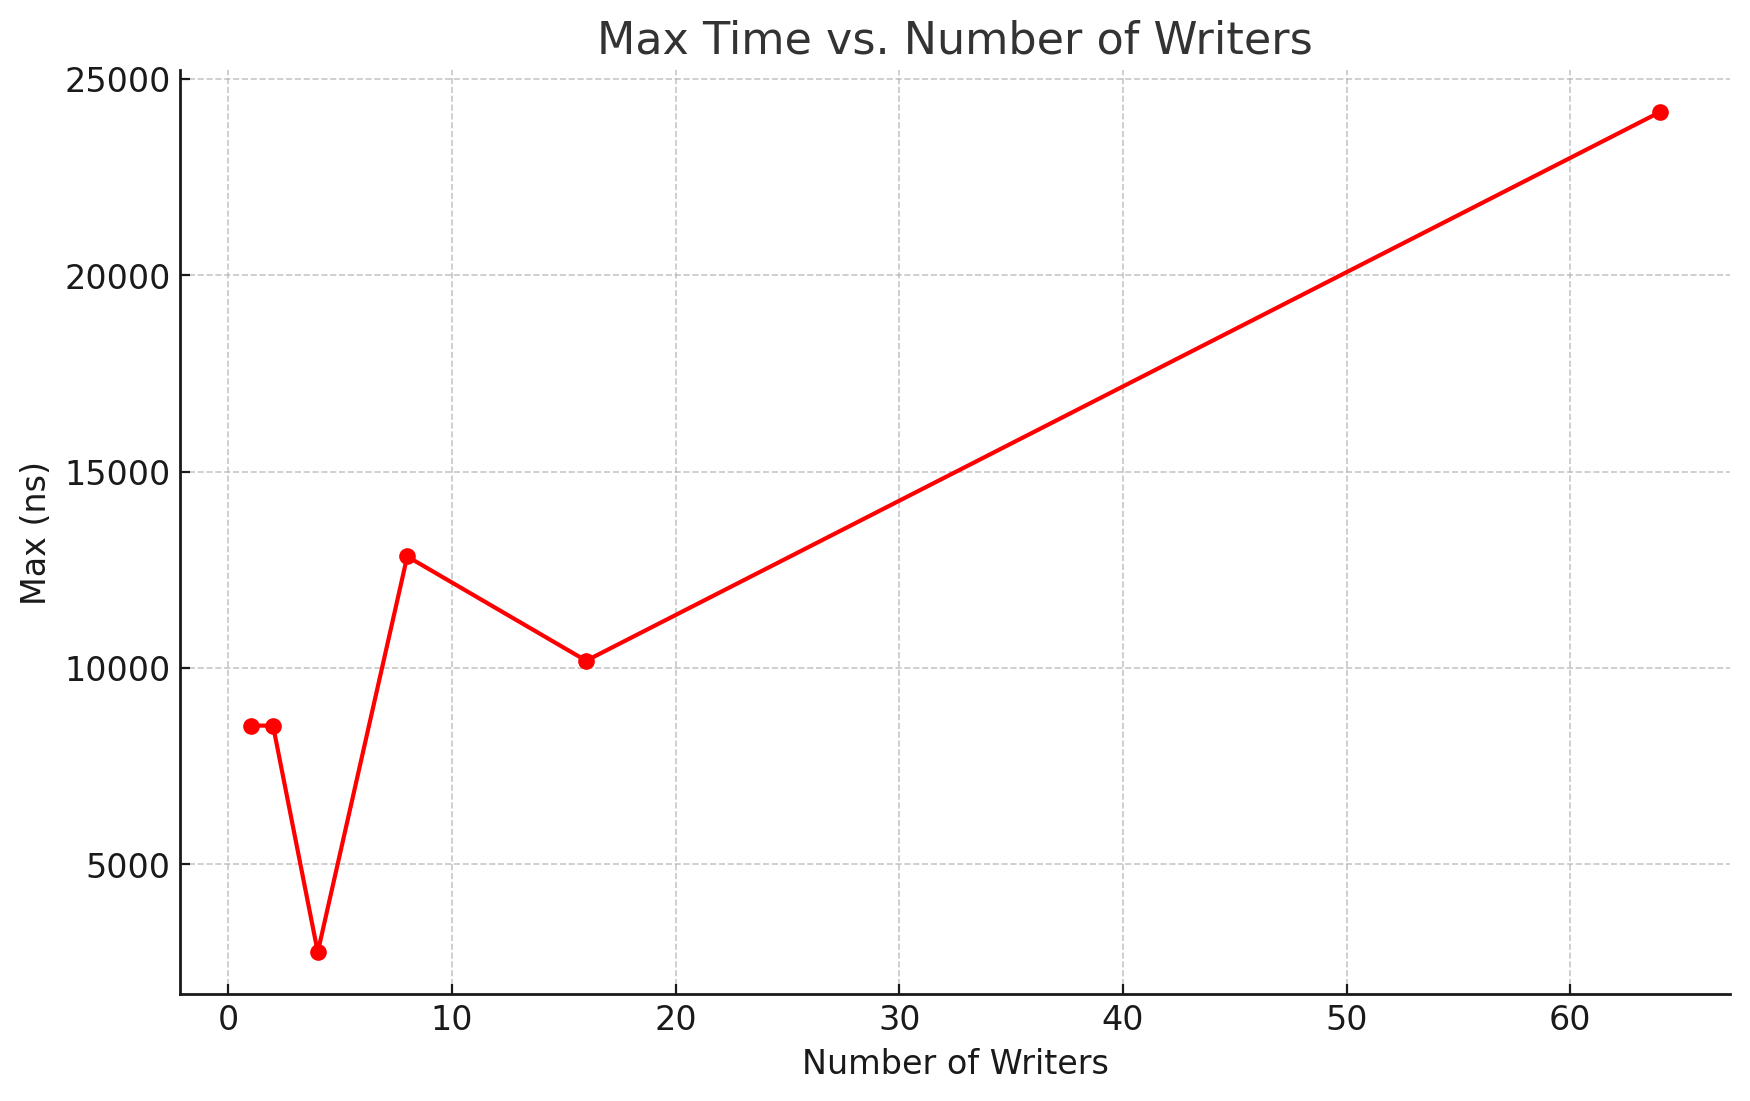
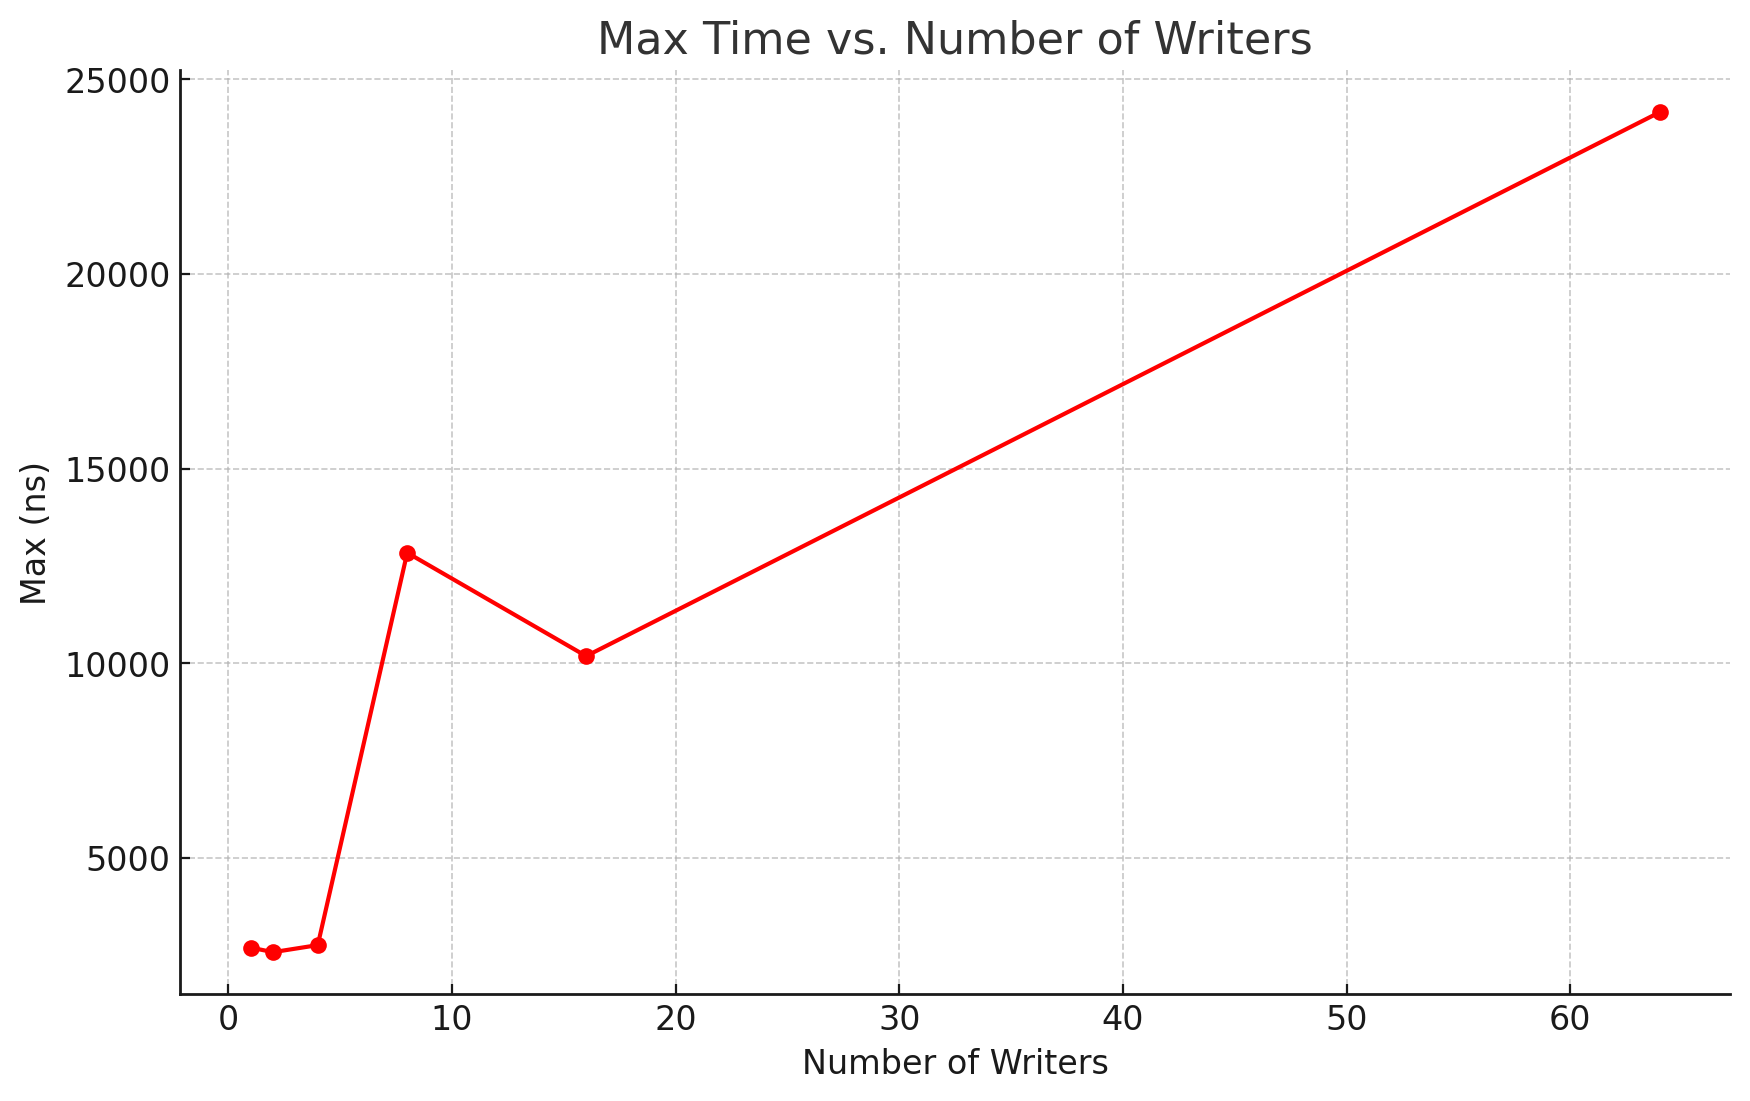
Update plots and notes in the README.

diff --git a/apps/executor/lockfree_polymorphic.h b/apps/executor/lockfree_polymorphic.h
@@ -38,6 +38,24 @@ class LockFreePolymorphic
         return {curr_wr_seq, std::bit_cast<void* const>(commit_ptr)};
     }
 
+    template <typename T>
+    auto ReserveMultiple(const size_t count) -> std::tuple<size_t, void* const, size_t>
+    {
+        auto total_size = sizeof(T);
+        auto commit_ptr = std::bit_cast<uintptr_t>(write_ptr_.fetch_add(total_size * count, std::memory_order_acq_rel));
+        auto curr_wr_seq = write_sequence_number_.fetch_add(1, std::memory_order_acq_rel);
+        auto& node = nodes_[curr_wr_seq & (NUM_NODES - 1)];
+
+        auto expected = EMPTY;
+        do {
+            expected = EMPTY;
+        } while (!node.written_.compare_exchange_weak(expected, RESERVED, std::memory_order_acq_rel));
+
+        // Store the commit pointer in the node
+        node.node_ptr_ = commit_ptr;
+        return {curr_wr_seq, std::bit_cast<void* const>(commit_ptr), count};
+    }
+
     void Commit(const size_t sequence_number)
     {
         auto& current = nodes_[sequence_number & (NUM_NODES - 1)];

diff --git a/README.md b/README.md
@@ -8,20 +8,24 @@ For each cell I store the pointer after being reserved.
 
 ## Measurement
 My machine has 10 cores, I could not disable the hyperthreading because the machine is locked.
+On the benchmarking side, I could have used Google benchmark. In my experience Google benchmark is not very trustful for multithreading code, so I preferred to have an internal clock class defined which uses the performance counters and counts the number of cycles and converts into time.
+
+Further details are the in the following presentation: [Microbenchmarking C++ code](https://www.youtube.com/watch?v=Czr5dBfs72U&t=852s)
 
 ### Single Reservation
 
-Experiment with 5000 number of events per writer
+Experiment with 5000 number of events per writer.
+
+If the writers keep flooding the queue the latency is clearly high, so the idea to have a more realistic measure is avoid that the writers flood the queue in a tight loop.
 
 | NUMBER WRITERS | MEAN (ns) | MAX (ns) |
 |----------------|-----------|----------|
-| 1              | 186.553   | 8529     |
-| 2              | 186.553   | 8529     |
+| 1              | 188.868   | 2696     |
+| 2              | 216.283   | 2578     |
 | 4              | 289.702   | 2759     |
 | 8              | 352.577   | 12837    |
 | 16             | 371.31    | 10182    |
 | 64             | 485.868   | 24153    |
 
-![alt text](plot_mean.png)
-
+![alt text](plot_mean_single.png)
 ![alt text](plot_max_single.png)
